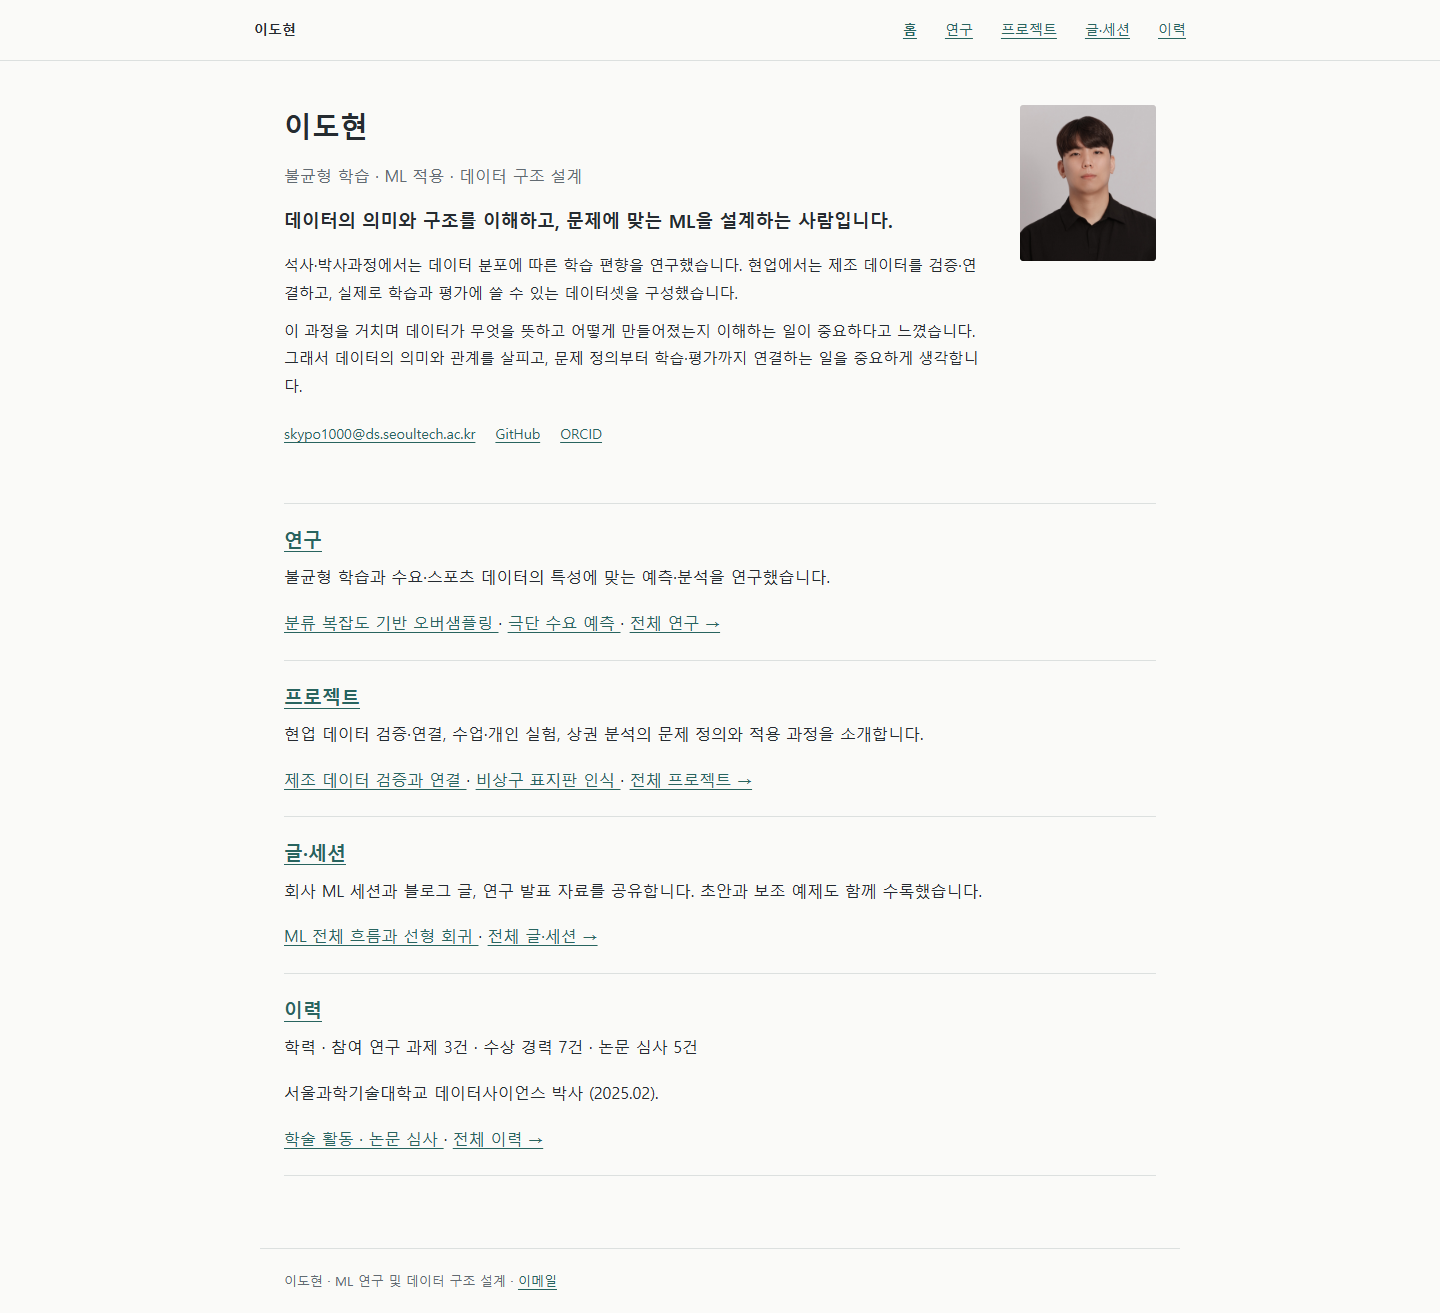
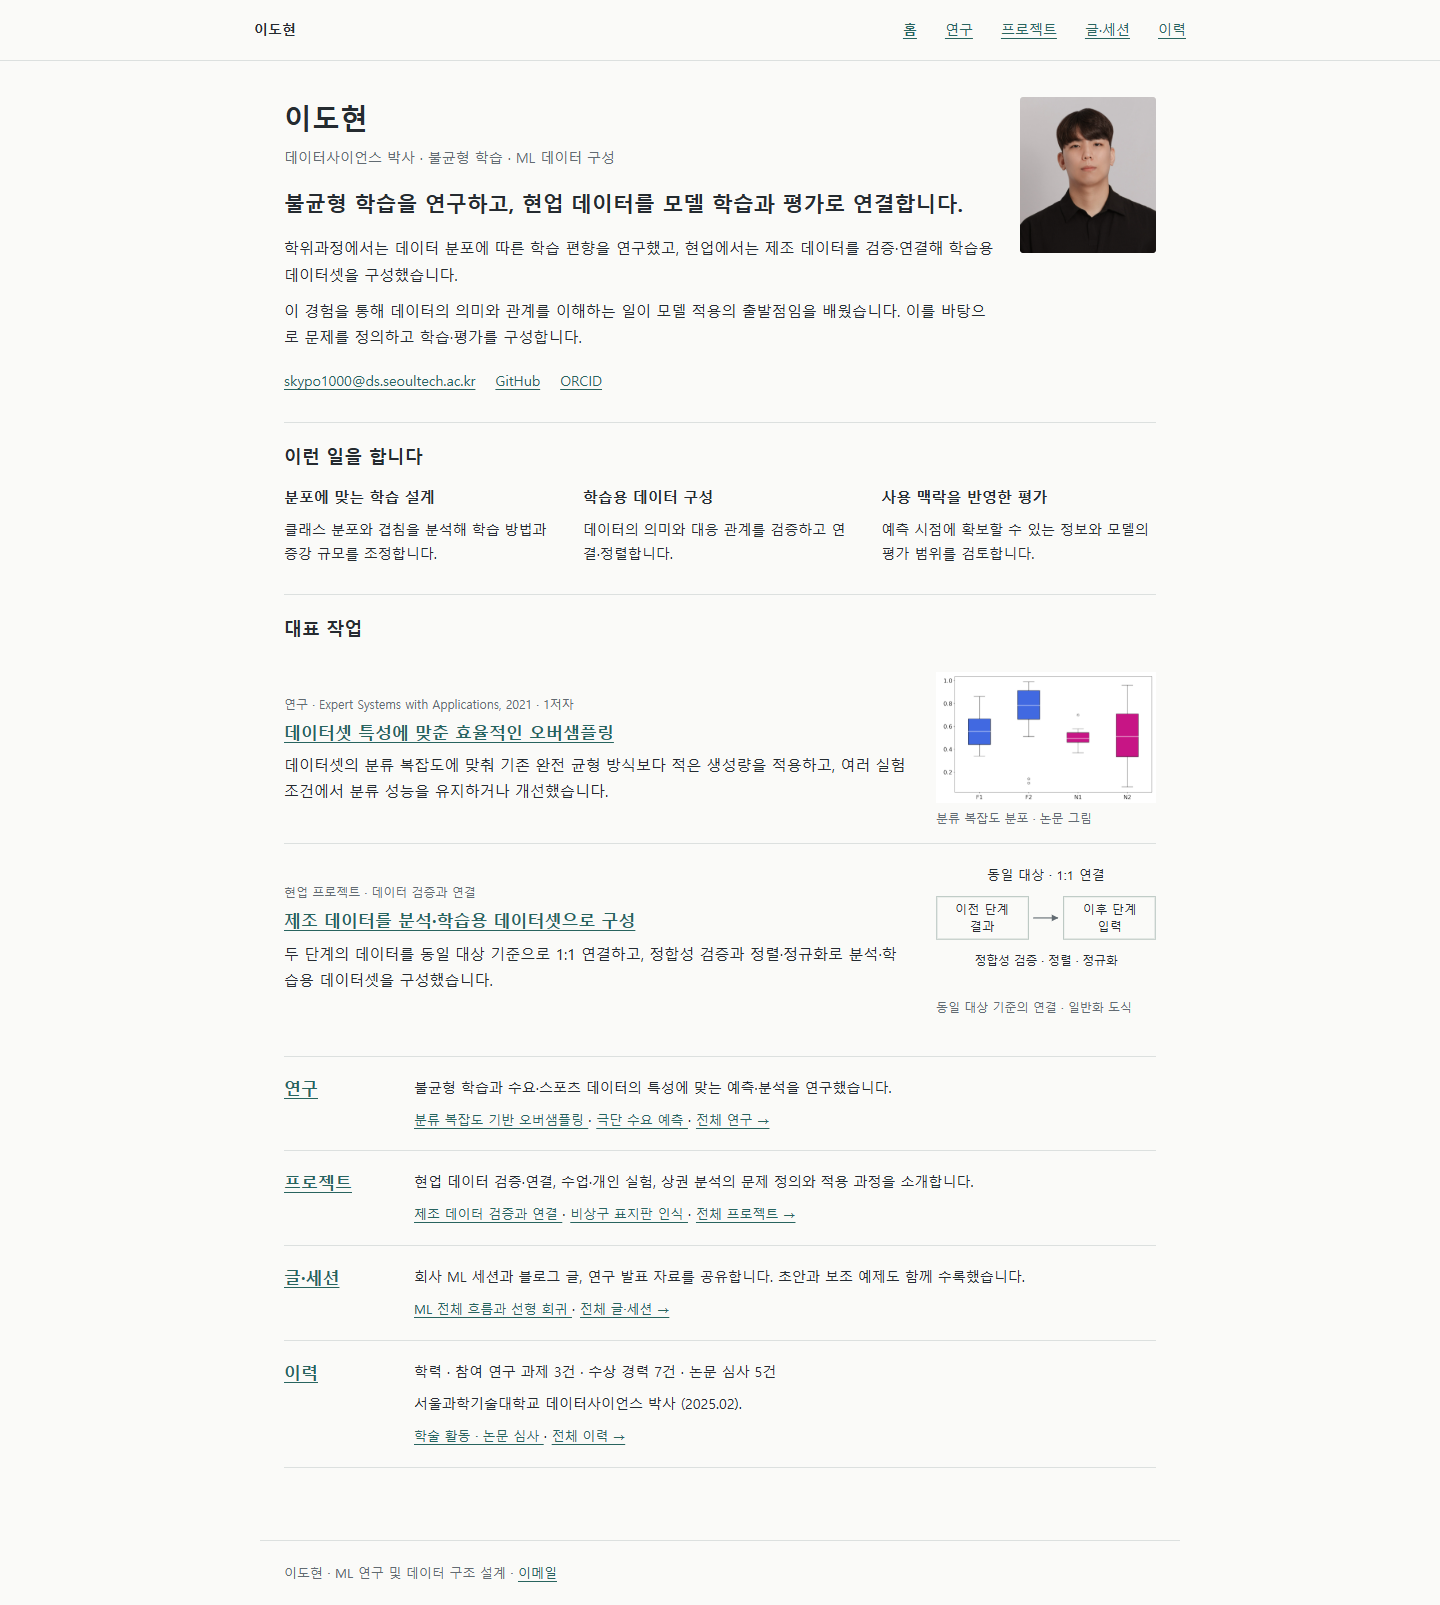
Give homepage clear identity, strengths, and representative work

diff --git a/index.html b/index.html
@@ -35,7 +35,7 @@
     </a>
    </nav>
   </header>
-  <main id="main">
+  <main class="home-page" id="main">
    <section class="profile-intro" id="home">
     <img alt="이도현 프로필 사진" class="profile-photo" height="1567" src="images/profile-dohyeon.jpg" width="1369"/>
     <div class="profile-copy">
@@ -43,16 +43,16 @@
       이도현
      </h1>
      <p class="muted">
-      불균형 학습 · ML 적용 · 데이터 구조 설계
+      데이터사이언스 박사 · 불균형 학습 · ML 데이터 구성
      </p>
      <p class="intro profile-identity">
-      데이터의 의미와 구조를 이해하고, 문제에 맞는 ML을 설계하는 사람입니다.
+      불균형 학습을 연구하고, 현업 데이터를 모델 학습과 평가로 연결합니다.
      </p>
      <p class="profile-context">
-      석사·박사과정에서는 데이터 분포에 따른 학습 편향을 연구했습니다. 현업에서는 제조 데이터를 검증·연결하고, 실제로 학습과 평가에 쓸 수 있는 데이터셋을 구성했습니다.
+      학위과정에서는 데이터 분포에 따른 학습 편향을 연구했고, 현업에서는 제조 데이터를 검증·연결해 학습용 데이터셋을 구성했습니다.
      </p>
      <p class="profile-context">
-      이 과정을 거치며 데이터가 무엇을 뜻하고 어떻게 만들어졌는지 이해하는 일이 중요하다고 느꼈습니다. 그래서 데이터의 의미와 관계를 살피고, 문제 정의부터 학습·평가까지 연결하는 일을 중요하게 생각합니다.
+      이 경험을 통해 데이터의 의미와 관계를 이해하는 일이 모델 적용의 출발점임을 배웠습니다. 이를 바탕으로 문제를 정의하고 학습·평가를 구성합니다.
      </p>
      <div class="contact">
       <a href="mailto:skypo1000@ds.seoultech.ac.kr">
@@ -67,6 +67,84 @@
      </div>
     </div>
    </section>
+   <section aria-labelledby="strengths-heading" class="home-strengths">
+    <h2 id="strengths-heading">
+     이런 일을 합니다
+    </h2>
+    <dl>
+     <div>
+      <dt>
+       분포에 맞는 학습 설계
+      </dt>
+      <dd>
+       클래스 분포와 겹침을 분석해 학습 방법과 증강 규모를 조정합니다.
+      </dd>
+     </div>
+     <div>
+      <dt>
+       학습용 데이터 구성
+      </dt>
+      <dd>
+       데이터의 의미와 대응 관계를 검증하고 연결·정렬합니다.
+      </dd>
+     </div>
+     <div>
+      <dt>
+       사용 맥락을 반영한 평가
+      </dt>
+      <dd>
+       예측 시점에 확보할 수 있는 정보와 모델의 평가 범위를 검토합니다.
+      </dd>
+     </div>
+    </dl>
+   </section>
+   <section aria-labelledby="work-heading" class="home-work">
+    <h2 id="work-heading">
+     대표 작업
+    </h2>
+    <article class="featured-work">
+     <div>
+      <p class="meta">
+       연구 · Expert Systems with Applications, 2021 · 1저자
+      </p>
+      <h3>
+       <a href="research/oversampling.html">
+        데이터셋 특성에 맞춘 효율적인 오버샘플링
+       </a>
+      </h3>
+      <p>
+       데이터셋의 분류 복잡도에 맞춰 기존 완전 균형 방식보다 적은 생성량을 적용하고, 여러 실험 조건에서 분류 성능을 유지하거나 개선했습니다.
+      </p>
+     </div>
+     <figure>
+      <img alt="논문 Figure 1의 F1·F2·N1·N2 분류 복잡도 분포" height="522" loading="lazy" src="images/research/paper-oversampling-complexity.png" width="876"/>
+      <figcaption>
+       분류 복잡도 분포 · 논문 그림
+      </figcaption>
+     </figure>
+    </article>
+    <article class="featured-work">
+     <div>
+      <p class="meta">
+       현업 프로젝트 · 데이터 검증과 연결
+      </p>
+      <h3>
+       <a href="projects/manufacturing-data.html">
+        제조 데이터를 분석·학습용 데이터셋으로 구성
+       </a>
+      </h3>
+      <p>
+       두 단계의 데이터를 동일 대상 기준으로 1:1 연결하고, 정합성 검증과 정렬·정규화로 분석·학습용 데이터셋을 구성했습니다.
+      </p>
+     </div>
+     <figure>
+      <img alt="이전 단계 결과와 이후 단계 입력을 동일 대상 기준으로 1:1 연결하는 일반적인 관계" height="180" loading="lazy" src="images/research/home-data-link.svg" width="300"/>
+      <figcaption>
+       동일 대상 기준의 연결 · 일반화 도식
+      </figcaption>
+     </figure>
+    </article>
+   </section>
    <div class="overview">
     <article id="research">
      <span id="machine-learning">
@@ -76,20 +154,22 @@
        연구
       </a>
      </h2>
-     <p>
-      불균형 학습과 수요·스포츠 데이터의 특성에 맞는 예측·분석을 연구했습니다.
-     </p>
-     <a href="research/oversampling.html">
-      분류 복잡도 기반 오버샘플링
-     </a>
-     ·
-     <a href="research/adaboost-rdt.html">
-      극단 수요 예측
-     </a>
-     ·
-     <a href="research.html">
-      전체 연구 →
-     </a>
+     <div class="overview-copy">
+      <p>
+       불균형 학습과 수요·스포츠 데이터의 특성에 맞는 예측·분석을 연구했습니다.
+      </p>
+      <a href="research/oversampling.html">
+       분류 복잡도 기반 오버샘플링
+      </a>
+      ·
+      <a href="research/adaboost-rdt.html">
+       극단 수요 예측
+      </a>
+      ·
+      <a href="research.html">
+       전체 연구 →
+      </a>
+     </div>
     </article>
     <article id="projects">
      <span id="data-architecture">
@@ -101,20 +181,22 @@
        프로젝트
       </a>
      </h2>
-     <p>
-      현업 데이터 검증·연결, 수업·개인 실험, 상권 분석의 문제 정의와 적용 과정을 소개합니다.
-     </p>
-     <a href="projects/manufacturing-data.html">
-      제조 데이터 검증과 연결
-     </a>
-     ·
-     <a href="projects/emergency-exit.html">
-      비상구 표지판 인식
-     </a>
-     ·
-     <a href="projects.html">
-      전체 프로젝트 →
-     </a>
+     <div class="overview-copy">
+      <p>
+       현업 데이터 검증·연결, 수업·개인 실험, 상권 분석의 문제 정의와 적용 과정을 소개합니다.
+      </p>
+      <a href="projects/manufacturing-data.html">
+       제조 데이터 검증과 연결
+      </a>
+      ·
+      <a href="projects/emergency-exit.html">
+       비상구 표지판 인식
+      </a>
+      ·
+      <a href="projects.html">
+       전체 프로젝트 →
+      </a>
+     </div>
     </article>
     <article id="talks">
      <span id="blog">
@@ -124,16 +206,18 @@
        글·세션
       </a>
      </h2>
-     <p>
-      회사 ML 세션과 블로그 글, 연구 발표 자료를 공유합니다. 초안과 보조 예제도 함께 수록했습니다.
-     </p>
-     <a href="sessions/aiguru/round1-01-ml-linear-regression.html">
-      ML 전체 흐름과 선형 회귀
-     </a>
-     ·
-     <a href="writing.html">
-      전체 글·세션 →
-     </a>
+     <div class="overview-copy">
+      <p>
+       회사 ML 세션과 블로그 글, 연구 발표 자료를 공유합니다. 초안과 보조 예제도 함께 수록했습니다.
+      </p>
+      <a href="sessions/aiguru/round1-01-ml-linear-regression.html">
+       ML 전체 흐름과 선형 회귀
+      </a>
+      ·
+      <a href="writing.html">
+       전체 글·세션 →
+      </a>
+     </div>
     </article>
     <article id="about">
      <span id="awards">
@@ -145,19 +229,21 @@
        이력
       </a>
      </h2>
-     <p>
-      학력 · 참여 연구 과제 3건 · 수상 경력 7건 · 논문 심사 5건
-     </p>
-     <p>
-      서울과학기술대학교 데이터사이언스 박사 (2025.02).
-     </p>
-     <a href="resume.html#academic-service">
-      학술 활동 · 논문 심사
-     </a>
-     ·
-     <a href="resume.html">
-      전체 이력 →
-     </a>
+     <div class="overview-copy">
+      <p>
+       학력 · 참여 연구 과제 3건 · 수상 경력 7건 · 논문 심사 5건
+      </p>
+      <p>
+       서울과학기술대학교 데이터사이언스 박사 (2025.02).
+      </p>
+      <a href="resume.html#academic-service">
+       학술 활동 · 논문 심사
+      </a>
+      ·
+      <a href="resume.html">
+       전체 이력 →
+      </a>
+     </div>
     </article>
    </div>
   </main>

diff --git a/assets/site.css b/assets/site.css
@@ -25,6 +25,43 @@ p { margin:0 0 16px; }
 .profile-photo { grid-column:2; grid-row:1; display:block; width:136px; height:auto; border-radius:3px; }
 .profile-identity { font-size:18px; font-weight:600; line-height:1.65; }
 .profile-context { font-size:15px; margin-bottom:10px; }
+.home-page { padding-top:36px; }
+.home-page .profile-intro { gap:24px; }
+.home-page .profile-copy>h1 { margin-bottom:6px; }
+.home-page .profile-copy>.muted { font-size:14px; margin-bottom:16px; }
+.home-page .profile-identity { font-size:21px; line-height:1.55; margin-bottom:16px; }
+.home-page .profile-context { line-height:1.75; }
+.home-page .contact { margin:18px 0 0; }
+.home-strengths,.home-work { margin-top:28px; padding-top:20px; border-top:1px solid var(--line); }
+.home-strengths>h2,.home-work>h2 { font-size:18px; margin:0 0 14px; }
+.home-strengths dl { display:grid; grid-template-columns:repeat(3,minmax(0,1fr)); gap:24px; margin:0; }
+.home-strengths dt { font-size:15px; font-weight:650; margin-bottom:6px; }
+.home-strengths dd { font-size:14px; line-height:1.7; margin:0; }
+.featured-work { display:grid; grid-template-columns:minmax(0,1fr) 220px; gap:28px; align-items:center; padding:16px 0; }
+.featured-work+.featured-work { border-top:1px solid var(--line); }
+.featured-work h3 { font-size:17px; line-height:1.5; margin:4px 0 8px; }
+.featured-work p { font-size:15px; line-height:1.75; margin:0; }
+.featured-work .meta { font-size:12px; }
+.featured-work figure { margin:0; }
+.featured-work img { display:block; width:100%; height:auto; max-height:132px; object-fit:contain; }
+.featured-work figcaption { font-size:12px; line-height:1.5; margin-top:6px; }
+.home-page .overview { margin-top:24px; }
+.home-page .overview article { position:relative; display:grid; grid-template-columns:110px minmax(0,1fr); gap:20px; padding:18px 0; font-size:14px; }
+.home-page .overview article>span { position:absolute; top:0; }
+.home-page .overview h2 { margin:0; font-size:17px; }
+.home-page .overview p { margin:0 0 6px; }
+.home-page .overview-copy>a { font-size:13px; }
+@media (max-width:600px) {
+ .home-page { padding-top:28px; }
+ .home-page .profile-identity { font-size:19px; }
+ .home-strengths dl { grid-template-columns:1fr; gap:12px; }
+ .home-strengths dt { margin-bottom:2px; }
+ .featured-work { grid-template-columns:1fr; gap:12px; }
+ .featured-work figure { max-width:280px; }
+ .featured-work img { max-height:150px; }
+ .home-page .overview article { display:block; }
+ .home-page .overview h2 { margin-bottom:6px; }
+}
 .experience-story { margin-top:28px; border-top:1px solid var(--line); }
 .experience-story>h2 { font-size:19px; margin:22px 0 16px; }
 .story-step { display:grid; grid-template-columns:190px minmax(0,1fr); gap:24px; margin:0 0 20px; }

diff --git a/docs/review/REVIEW.md b/docs/review/REVIEW.md
@@ -6,7 +6,7 @@ main 병합과 실제 사이트 배포는 수행하지 않습니다.
 
 ## 변경 내용
 
-- 자기소개를 홈 상단에서 바로 읽도록 배치했습니다. ‘데이터의 의미와 구조를 이해하고, 문제에 맞는 ML을 설계하는 사람입니다’ 다음에 학위과정의 학습 편향 연구, 현업 데이터 검증·학습 자료 구성, 데이터 이해로 이어진 관점을 두 문단으로 설명합니다. 별도 소개 링크는 제거했습니다. 연구·프로젝트의 구체적인 방법과 결과는 아래 목록의 상세 링크로 연결합니다. 이력의 소개 링크와 기존 about.html 주소도 홈 자기소개로 이동하며 이전 소개 본문은 호환 페이지에 보존했습니다. 사용자가 설명한 관심의 변화를 반영하되 현업 시기·회사명·운영 배포나 성능 개선은 추가하지 않았습니다. 1440·390·320px에서 소개 문장, 홈→논문/프로젝트 이동, 이력→홈 복귀, 기존 소개 주소 이동, 사진과 가로 넘침·JavaScript 오류를 확인했습니다. [검증 결과](introduction-browser-results.json).
+- 홈을 자기소개 → 강점 3개 → 대표 작업 2개 → 전체 목록 순서로 구성했습니다. 이름·사진과 ‘데이터사이언스 박사’를 앞에 두고 ‘불균형 학습을 연구하고, 현업 데이터를 모델 학습과 평가로 연결합니다’를 가장 먼저 읽히게 배치했습니다. 학위과정·현업 경험과 데이터 이해로 이어진 관점도 상단 두 문단에서 바로 읽습니다. 별도 소개 링크는 없습니다. 강점은 분포에 맞는 학습 설계, 학습용 데이터 구성, 사용 맥락을 반영한 평가입니다. 대표 작업은 ESWA 오버샘플링 연구와 제조 데이터 연결 경험이며 실제 논문 그림과 일반화한 연결 도식을 표시했습니다. 연구 그림을 성능 그래프로 표현하지 않았고, 현업 도식에는 내부 정보나 운영 성과를 추가하지 않았습니다. 전체 목록은 데스크톱에서 항목명·설명을 나란히 배치하고 모바일에서는 세로로 읽습니다. 스타일은 홈에 한정합니다. 기존 소개 주소는 홈으로 연결하고 이전 본문을 보존했습니다. 1440·390·320px에서 자기소개, 강점과 그림, 대표 작업 미리보기·Escape·상세 이동, 메뉴·이력·기존 소개 주소, 가로 넘침과 JavaScript 오류를 확인했습니다. [검증 결과](introduction-browser-results.json).
 
 - 오버샘플링 연구의 기여 설명을 데이터셋 특성에 맞는 증강 규모와 더 적은 생성량·성능 유지 또는 개선으로 수정했습니다. 계산식은 접근 방법에만 남기고 목록·미리보기·상단 요약·기여 문단을 맞췄습니다. 원문 수치와 조건별 성능 차이는 유지합니다.
 
@@ -82,7 +82,7 @@ main 병합과 실제 사이트 배포는 수행하지 않습니다.
 | 확인 항목 | 결과 |
 | --- | --- |
 | 정적 HTML | 39개 페이지 |
-| 내부 링크·목차·이미지·자원 참조 | 721개, 누락 파일·fragment 없음 |
+| 내부 링크·목차·이미지·자원 참조 | 725개, 누락 파일·fragment 없음 |
 | 본문 대조 | 세션·보조 예제 11개, 현업 사례 일반화·요청된 명칭 변경 외 본문 텍스트 보존 |
 | 세션 기능 자료 대조 | 기존 JavaScript와 SVG 보존 |
 | 이력·발표 대조 | 학력 3 / 연구 과제 3 / 수상 7 / 연구 발표 8 누락 없음 |

diff --git a/docs/review/VISUAL-SOURCES.md b/docs/review/VISUAL-SOURCES.md
@@ -19,4 +19,9 @@
 
 노이즈 필터링, 오버샘플링, 야구 카운트 분석, 리뷰 분석, GAN, OOD, 성수동 분석, 보험 분류, 시계열 데이터와 문서 표준화는 확인된 문제·구현 흐름을 SVG로 표현했습니다. 학위논문 2건은 제목에서 확인되는 문제 범위를 표현합니다. 좌표·표본·성능을 합성하지 않았으며 모든 캡션에 실험 결과가 아닌 개념도임을 표시했습니다.
 
-학위논문 원문 2건은 기존 dCollection·RISS 주소로 접근이 되지 않아 관련 학술지 내용과 동일하다고 가정하지 않았습니다. 논문 메타데이터와 기존 링크는 유지합니다.
+학위논문 원문 2건도 제공된 PDF로 보강했습니다. 초기 개념도 대신 원본 그림을 사용하며 근거는 [학위논문 대조](THESIS-SOURCES.md)에 있습니다. 논문 메타데이터와 기존 링크는 유지합니다.
+
+## 홈 대표 작업
+
+- `images/research/paper-oversampling-complexity.png`: ESWA 원고 Figure 1의 분류 복잡도 분포를 그대로 재사용했습니다. 성능 개선 그래프나 신규 실험으로 설명하지 않습니다.
+- `images/research/home-data-link.svg`: 기존 일반화 그림 `images/aiguru-validation-etl.png`의 동일 대상·1:1 연결과 정합성 검증·정렬·정규화 관계를 작은 화면에서도 읽을 수 있도록 SVG로 표현했습니다. 실제 공정·데이터 구조·처리량·내부 구현은 담지 않았습니다. 원본 일반화 그림은 상세와 미리보기에 유지합니다.

diff --git a/README.md b/README.md
@@ -4,7 +4,7 @@
 
 | 경로 | 내용 |
 | --- | --- |
-| `index.html` | 정체성과 연구·현업 경험을 소개하는 자기소개, 연락처, 주요 목록 요약 |
+| `index.html` | 자기소개와 연락처, 강점 3개, 대표 연구·현업 작업, 주요 목록 요약 |
 | `about.html` | 기존 소개 주소를 홈 자기소개로 연결 (이전 본문 보존) |
 | `research.html`, `research/` | 주제별 연구 목록과 상세 8건 |
 | `projects.html`, `projects/` | 현업·수업/개인·공모전/지역 분석 등 프로젝트 9건, 기존 연구 주소 연결 2건 |
